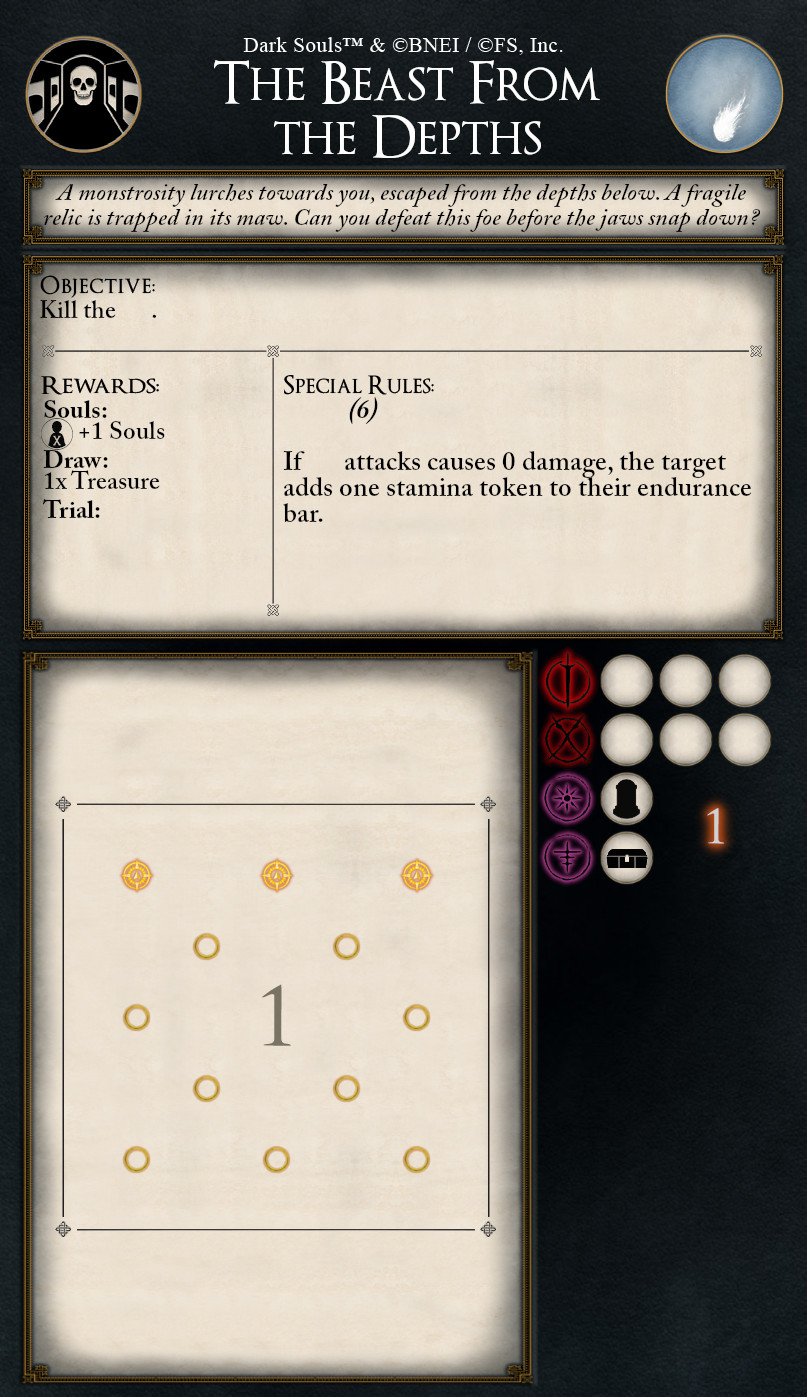
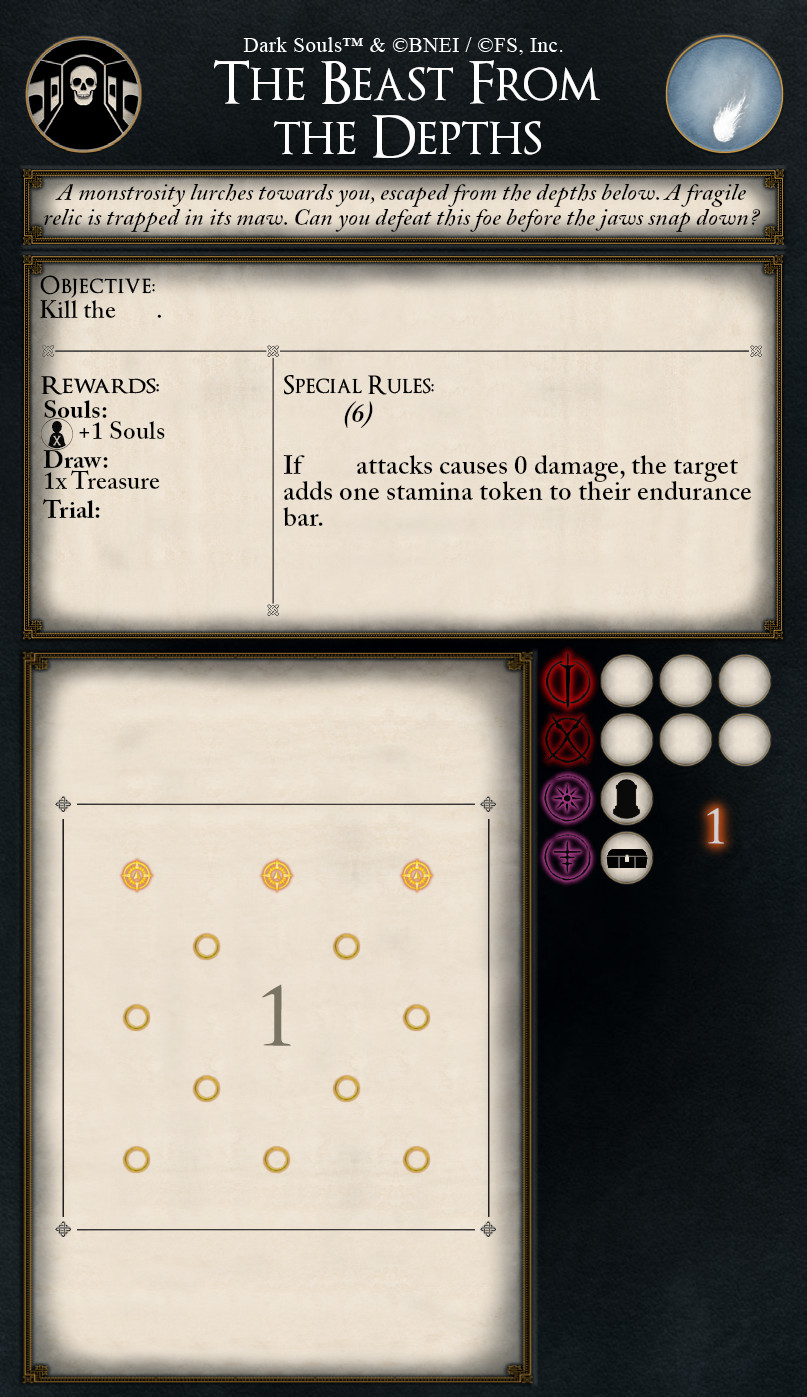
More positioning adjustments due to the new font.

Changed region(s): [[0.3408, 0.277, 0.9294, 0.4001]]

diff --git a/enemy_swapper.py b/enemy_swapper.py
@@ -2240,10 +2240,10 @@ try:
                     lastSpaceIdx = newTreasure.rfind(" ")
                     newTreasure1 = newTreasure[:lastSpaceIdx]
                     newTreasure2 = newTreasure[lastSpaceIdx+1:]
-                    imageWithText.text((21, 232), newTreasure1, "black", font)
-                    imageWithText.text((21, 243), newTreasure2, "black", font)
+                    imageWithText.text((21, 235), newTreasure1, "black", font)
+                    imageWithText.text((21, 246), newTreasure2, "black", font)
                 else:
-                    imageWithText.text((21, 232), newTreasure, "black", font)
+                    imageWithText.text((21, 235), newTreasure, "black", font)
 
                 adapter.debug("\tEnd of dark_resurrection", caller=calframe[1][3])
             except Exception as e:
@@ -2346,6 +2346,7 @@ try:
                     maxDifficulty = totalDifficulty * (1 + diffMod)
                     enemyList = [enemies[enemy]["name"] for enemy in enemies if (
                         enemiesDict[enemy].expansion in self.availableSets
+                        and (self.newEnemies + [enemiesDict[enemy].id]).count(enemiesDict[enemy].id) <= enemies[enemy]["count"]
                         and enemiesDict[enemy].difficulty > 0
                         and not enemies[enemy]["ranged"] and minDifficulty <= sum([
                             (enemiesDict[enemy].difficulty),
@@ -2444,6 +2445,7 @@ try:
                     maxDifficulty = totalDifficulty * (1 + diffMod)
                     enemyList = [enemies[enemy]["name"] for enemy in enemies if (
                         enemiesDict[enemy].expansion in self.availableSets
+                        and (self.newEnemies + [enemiesDict[enemy].id]).count(enemiesDict[enemy].id) <= enemies[enemy]["count"]
                         and enemiesDict[enemy].difficulty > 0
                         and not enemies[enemy]["ranged"] and minDifficulty <= sum([
                             (enemiesDict[enemy].difficulty),
@@ -2468,6 +2470,7 @@ try:
                     maxDifficulty = totalDifficulty * (1 + diffMod)
                     enemyList = [enemies[enemy]["name"] for enemy in enemies if (
                         enemiesDict[enemy].expansion in self.availableSets
+                        and (self.newEnemies + [spawn1] + [enemiesDict[enemy].id]).count(enemiesDict[enemy].id) <= enemies[enemy]["count"]
                         and enemiesDict[enemy].difficulty > 0
                         and enemies[enemy]["ranged"] or not restrictRanged) and minDifficulty <= sum([
                             (enemiesDict[enemy].difficulty),
@@ -2526,6 +2529,7 @@ try:
                     maxDifficulty = totalDifficulty * (1 + diffMod)
                     enemyList = [enemies[enemy]["name"] for enemy in enemies if (
                         enemiesDict[enemy].expansion in self.availableSets
+                        and (self.newEnemies + [enemiesDict[enemy].id]).count(enemiesDict[enemy].id) <= enemies[enemy]["count"]
                         and enemiesDict[enemy].difficulty > 0
                         and enemies[enemy]["count"] > 1 and minDifficulty <= sum([
                             (enemiesDict[enemy].difficulty * 2),
@@ -2548,6 +2552,7 @@ try:
                     maxDifficulty = totalDifficulty * (1 + diffMod)
                     enemyList = [enemies[enemy]["name"] for enemy in enemies if (
                         enemiesDict[enemy].expansion in self.availableSets
+                        and (self.newEnemies + [spawn1] + [enemiesDict[enemy].id]).count(enemiesDict[enemy].id) <= enemies[enemy]["count"]
                         and enemiesDict[enemy].difficulty > 0
                         and minDifficulty <= sum([
                             enemiesDict[enemy].difficulty,
@@ -2617,6 +2622,7 @@ try:
                     maxDifficulty = totalDifficulty * (1 + diffMod)
                     enemyList = [enemies[enemy]["name"] for enemy in enemies if (
                         enemiesDict[enemy].expansion in self.availableSets
+                        and (self.newEnemies + [enemiesDict[enemy].id]).count(enemiesDict[enemy].id) <= enemies[enemy]["count"]
                         and enemiesDict[enemy].difficulty > 0
                         and enemies[enemy]["count"] > 1 and minDifficulty <= sum([
                             (enemiesDict[enemy].difficulty * 2),
@@ -2629,7 +2635,7 @@ try:
                     break
                 spawn = choice(enemyList)
                 image = allEnemies[spawn]["image text"]
-                self.create_tooltip(image=image, text=self.tooltipText[spawn], x=247, y=198)
+                self.create_tooltip(image=image, text=self.tooltipText[spawn], x=238, y=198)
                 
                 if self.rewardTreasure:
                     newTreasure = self.rewardTreasure
@@ -2716,6 +2722,7 @@ try:
                     maxDifficulty = totalDifficulty * (1 + diffMod)
                     enemyList = [enemies[enemy]["name"] for enemy in enemies if (
                         enemiesDict[enemy].expansion in self.availableSets
+                        and (self.newEnemies + [enemiesDict[enemy].id]).count(enemiesDict[enemy].id) <= enemies[enemy]["count"]
                         and enemiesDict[enemy].difficulty > 0
                         and minDifficulty <= sum([
                             (enemiesDict[enemy].difficulty),
@@ -2731,8 +2738,8 @@ try:
                 spawn1 = choice(enemyList)
                 allTileEnemies.append(spawn1)
                 image1 = allEnemies[spawn1]["image text"]
-                self.create_tooltip(image=image1, text=self.tooltipText[spawn1], x=225, y=228)
-                self.create_tooltip(image=image1, text=self.tooltipText[spawn1], x=291, y=259)
+                self.create_tooltip(image=image1, text=self.tooltipText[spawn1], x=215, y=228)
+                self.create_tooltip(image=image1, text=self.tooltipText[spawn1], x=291, y=264)
 
                 totalDifficulty += enemiesDict["Skeleton Soldier"].difficulty
                 diffMod = 0.1
@@ -2741,6 +2748,7 @@ try:
                     maxDifficulty = totalDifficulty * (1 + diffMod)
                     enemyList = [enemies[enemy]["name"] for enemy in enemies if (
                         enemiesDict[enemy].expansion in self.availableSets
+                        and (self.newEnemies + [spawn1] + [enemiesDict[enemy].id]).count(enemiesDict[enemy].id) <= enemies[enemy]["count"]
                         and enemiesDict[enemy].difficulty > 0
                         and enemies[enemy]["count"] > 1
                         and minDifficulty <= sum([
@@ -2755,7 +2763,7 @@ try:
                     break
                 spawn2 = choice(enemyList)
                 image2 = allEnemies[spawn2]["image text"]
-                self.create_tooltip(image=image2, text=self.tooltipText[spawn2], x=245, y=273)
+                self.create_tooltip(image=image2, text=self.tooltipText[spawn2], x=243, y=276)
 
                 adapter.debug("\tEnd of lakeview_refuge", caller=calframe[1][3])
             except Exception as e:
@@ -2969,9 +2977,9 @@ try:
                 
                 target = self.newTiles[2][0][0]
                 image = allEnemies[target]["image text"]
-                self.create_tooltip(image=image, text=self.tooltipText[target], x=145, y=197)
-                self.create_tooltip(image=image, text=self.tooltipText[target], x=162, y=212)
-                self.create_tooltip(image=image, text=self.tooltipText[target], x=162, y=252)
+                self.create_tooltip(image=image, text=self.tooltipText[target], x=145, y=196)
+                self.create_tooltip(image=image, text=self.tooltipText[target], x=162, y=209)
+                self.create_tooltip(image=image, text=self.tooltipText[target], x=162, y=244)
 
                 adapter.debug("\tEnd of skeletal_spokes", caller=calframe[1][3])
             except Exception as e:
@@ -2996,6 +3004,7 @@ try:
                     maxDifficulty = totalDifficulty * (1 + diffMod)
                     enemyList = [enemy for enemy in enemiesDict if (
                         enemiesDict[enemy].expansion in self.availableSets
+                        and (self.newEnemies + [enemiesDict[enemy].id]).count(enemiesDict[enemy].id) <= enemies[enemy]["count"]
                         and enemiesDict[enemy].difficulty > 0
                         and enemiesDict[enemy].health == 1
                         and minDifficulty <= (enemiesDict[enemy].difficulty * enemies[enemy]["count"]) + enemiesDict[self.newTiles[1][0][0]].difficulty <= maxDifficulty
@@ -3008,14 +3017,14 @@ try:
                     break
                 spawn = choice(enemyList)
                 image = allEnemies[spawn]["image text"]
-                self.create_tooltip(image=image, text=self.tooltipText[spawn], x=241, y=198)
-                self.create_tooltip(image=image, text=self.tooltipText[spawn], x=204, y=251)
+                self.create_tooltip(image=image, text=self.tooltipText[spawn], x=239, y=198)
+                self.create_tooltip(image=image, text=self.tooltipText[spawn], x=205, y=258)
 
                 target = self.newTiles[1][0][0]
                 image = allEnemies[target]["image text"]
                 self.create_tooltip(image=image, text=self.tooltipText[target], x=65, y=147)
-                self.create_tooltip(image=image, text=self.tooltipText[target], x=311, y=226)
-                self.create_tooltip(image=image, text=self.tooltipText[target], x=285, y=251)
+                self.create_tooltip(image=image, text=self.tooltipText[target], x=312, y=234)
+                self.create_tooltip(image=image, text=self.tooltipText[target], x=288, y=256)
 
                 adapter.debug("\tEnd of skeleton_overlord", caller=calframe[1][3])
             except Exception as e:
@@ -3039,6 +3048,7 @@ try:
                     maxDifficulty = totalDifficulty * (1 + diffMod)
                     enemyList = [enemy for enemy in enemiesDict if (
                         enemiesDict[enemy].expansion in self.availableSets
+                        and (self.newEnemies + [enemiesDict[enemy].id]).count(enemiesDict[enemy].id) <= enemies[enemy]["count"]
                         and enemiesDict[enemy].difficulty > 0
                         and minDifficulty <= sum([
                             enemiesDict[enemy].difficulty,
@@ -3053,7 +3063,7 @@ try:
                     break
                 spawn1 = choice(enemyList)
                 image = allEnemies[spawn1]["image text"]
-                self.create_tooltip(image=image, text=self.tooltipText[spawn1], x=321, y=197)
+                self.create_tooltip(image=image, text=self.tooltipText[spawn1], x=322, y=195)
 
                 totalDifficulty += enemiesDict["Giant Skeleton Archer"].difficulty
                 diffMod = 0.1
@@ -3062,6 +3072,7 @@ try:
                     maxDifficulty = totalDifficulty * (1 + diffMod)
                     enemyList = [enemy for enemy in enemiesDict if (
                         enemiesDict[enemy].expansion in self.availableSets
+                        and (self.newEnemies + [spawn1] + [enemiesDict[enemy].id]).count(enemiesDict[enemy].id) <= enemies[enemy]["count"]
                         and enemiesDict[enemy].difficulty > 0
                         and minDifficulty <= sum([
                             enemiesDict[enemy].difficulty,
@@ -3077,7 +3088,7 @@ try:
                     break
                 spawn2 = choice(enemyList)
                 image = allEnemies[spawn2]["image text"]
-                self.create_tooltip(image=image, text=self.tooltipText[spawn2], x=144, y=212)
+                self.create_tooltip(image=image, text=self.tooltipText[spawn2], x=144, y=208)
                 
                 if self.rewardTreasure:
                     newTreasure = self.rewardTreasure
@@ -3113,7 +3124,7 @@ try:
                 target = self.newTiles[1][0][0]
                 image = allEnemies[target]["image text"]
                 self.create_tooltip(image=image, text=self.tooltipText[target], x=65, y=147)
-                self.create_tooltip(image=image, text=self.tooltipText[target], x=154, y=220)
+                self.create_tooltip(image=image, text=self.tooltipText[target], x=158, y=222)
                 
                 if self.rewardTreasure:
                     newTreasure = self.rewardTreasure
@@ -3153,6 +3164,7 @@ try:
                     maxDifficulty = totalDifficulty * (1 + diffMod)
                     enemyList = [enemy for enemy in enemiesDict if (
                         enemiesDict[enemy].expansion in self.availableSets
+                        and (self.newEnemies + [enemiesDict[enemy].id]).count(enemiesDict[enemy].id) <= enemies[enemy]["count"]
                         and enemiesDict[enemy].difficulty > 0
                         and minDifficulty <= sum([
                             enemiesDict[enemy].difficulty,
@@ -3172,6 +3184,7 @@ try:
                     maxDifficulty = totalDifficulty * (1 + diffMod)
                     enemyList = [enemy for enemy in enemiesDict if (
                         enemiesDict[enemy].expansion in self.availableSets
+                        and (self.newEnemies + [spawn1] + [enemiesDict[enemy].id]).count(enemiesDict[enemy].id) <= enemies[enemy]["count"]
                         and enemiesDict[enemy].difficulty > 0
                         and minDifficulty <= sum([
                             enemiesDict[enemy].difficulty,
@@ -3192,6 +3205,7 @@ try:
                     maxDifficulty = totalDifficulty * (1 + diffMod)
                     enemyList = [enemy for enemy in enemiesDict if (
                         enemiesDict[enemy].expansion in self.availableSets
+                        and (self.newEnemies + [spawn1] + [spawn2] + [enemiesDict[enemy].id]).count(enemiesDict[enemy].id) <= enemies[enemy]["count"]
                         and enemiesDict[enemy].difficulty > 0
                         and minDifficulty <= sum([
                             enemiesDict[enemy].difficulty,
@@ -3259,6 +3273,7 @@ try:
                     maxDifficulty = totalDifficulty * (1 + diffMod)
                     enemyList = [enemy for enemy in enemies if (
                         enemiesDict[enemy].expansion in self.availableSets
+                        and (self.newEnemies + [enemiesDict[enemy].id]).count(enemiesDict[enemy].id) <= enemies[enemy]["count"]
                         and enemiesDict[enemy].difficulty > 0
                         and minDifficulty <= sum([
                                 enemiesDict[enemy].difficulty,
@@ -3279,8 +3294,8 @@ try:
                 
                 target = choice(enemyList)
                 image = allEnemies[target]["image text"]
-                self.create_tooltip(image=image, text=self.tooltipText[target], x=225, y=197)
-                self.create_tooltip(image=image, text=self.tooltipText[target], x=302, y=220)
+                self.create_tooltip(image=image, text=self.tooltipText[target], x=217, y=197)
+                self.create_tooltip(image=image, text=self.tooltipText[target], x=305, y=220)
                 
                 if self.rewardTreasure:
                     newTreasure = self.rewardTreasure
@@ -3299,7 +3314,7 @@ try:
                     imageWithText.text((56, 258), newTreasure1, "black", font)
                     imageWithText.text((21, 270), newTreasure2, "black", font)
                 else:
-                    imageWithText.text((21, 270), newTreasure, "black", font)
+                    imageWithText.text((21, 258), newTreasure, "black", font)
 
                 adapter.debug("\tEnd of the_locked_grave", caller=calframe[1][3])
             except Exception as e:
@@ -3320,8 +3335,8 @@ try:
                 target2 = self.newTiles[3][1][0]
                 image1 = allEnemies[target1]["image text"]
                 image2 = allEnemies[target2]["image text"]
-                self.create_tooltip(image=image1, text=self.tooltipText[target1], x=64, y=147)
-                self.create_tooltip(image=image2, text=self.tooltipText[target2], x=220, y=147)
+                self.create_tooltip(image=image1, text=self.tooltipText[target1], x=62, y=147)
+                self.create_tooltip(image=image2, text=self.tooltipText[target2], x=216, y=147)
                 
                 if self.rewardTreasure:
                     newTreasure = self.rewardTreasure
